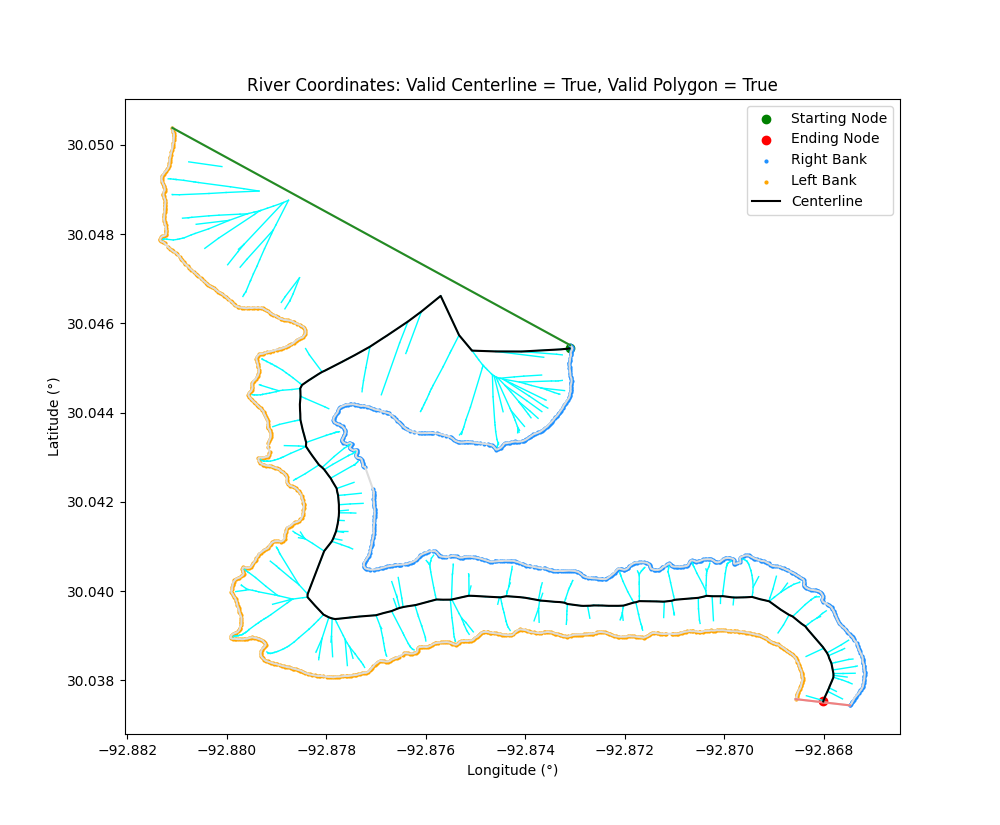
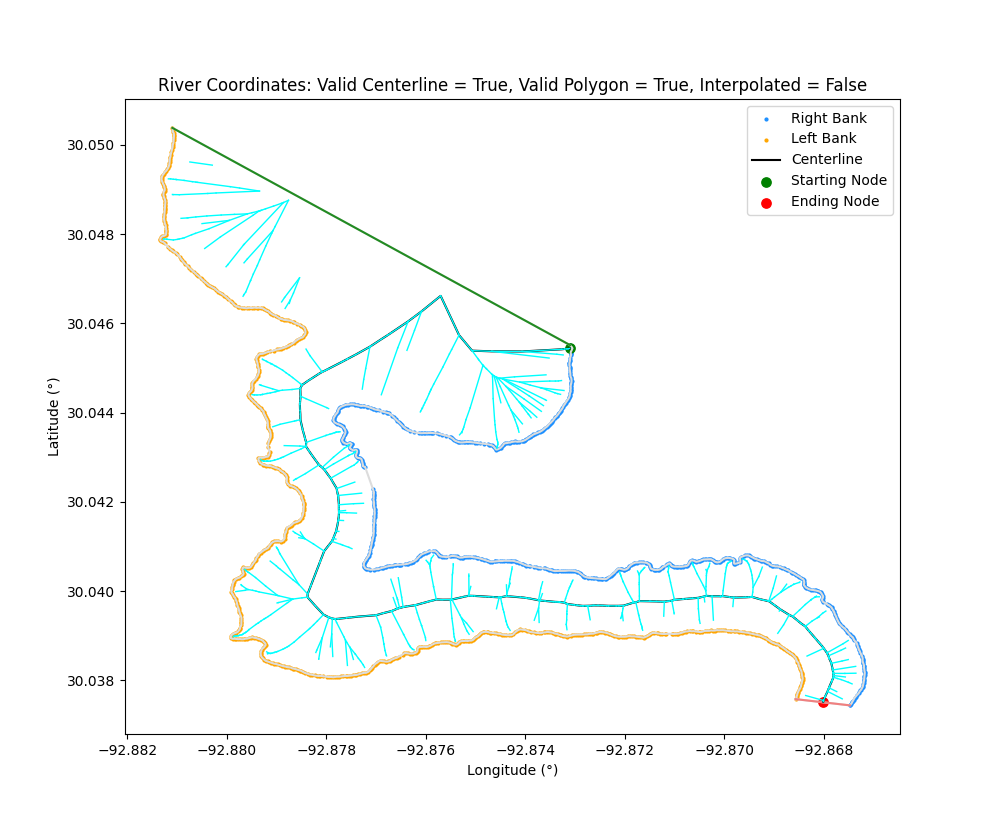
v0.2.0 release for optional interpolate_data argument

diff --git a/setup.py b/setup.py
@@ -3,7 +3,7 @@
 # Python Package Setup
 from setuptools import setup, find_namespace_packages
 
-VERSION="0.1.0"
+VERSION="0.2.0"
 DESCRIPTION="A Python package to find the centerline and width of rivers based on the latitude and longitude of the right and left bank"
 
 with open("README.md", "r") as f:
